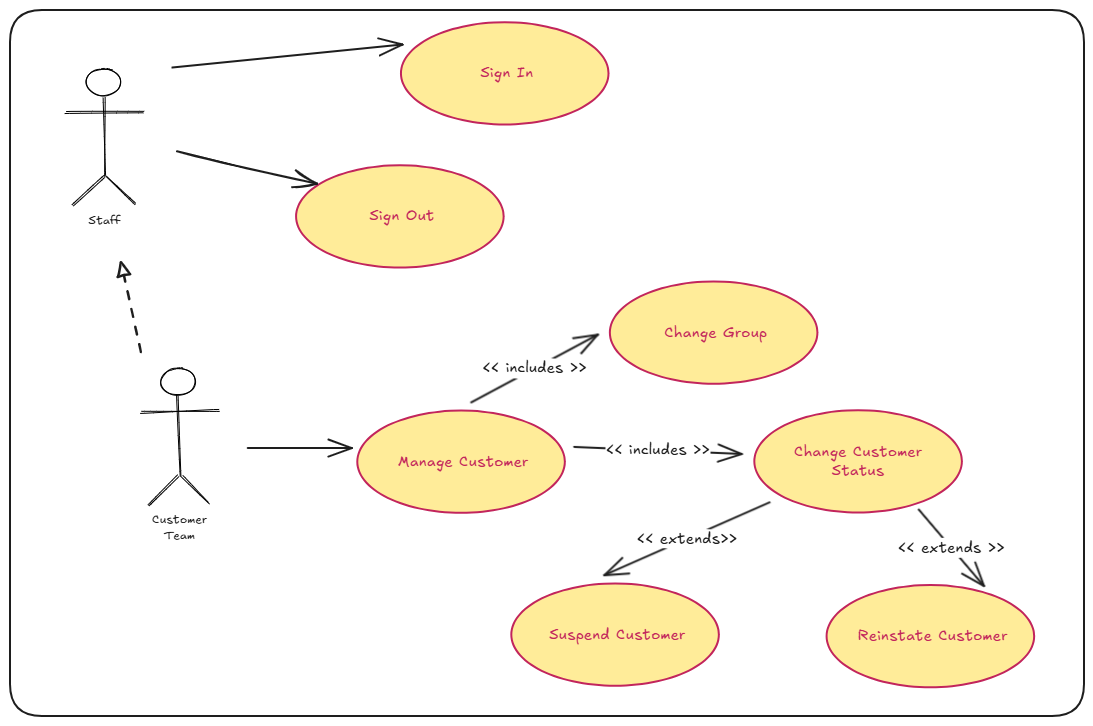
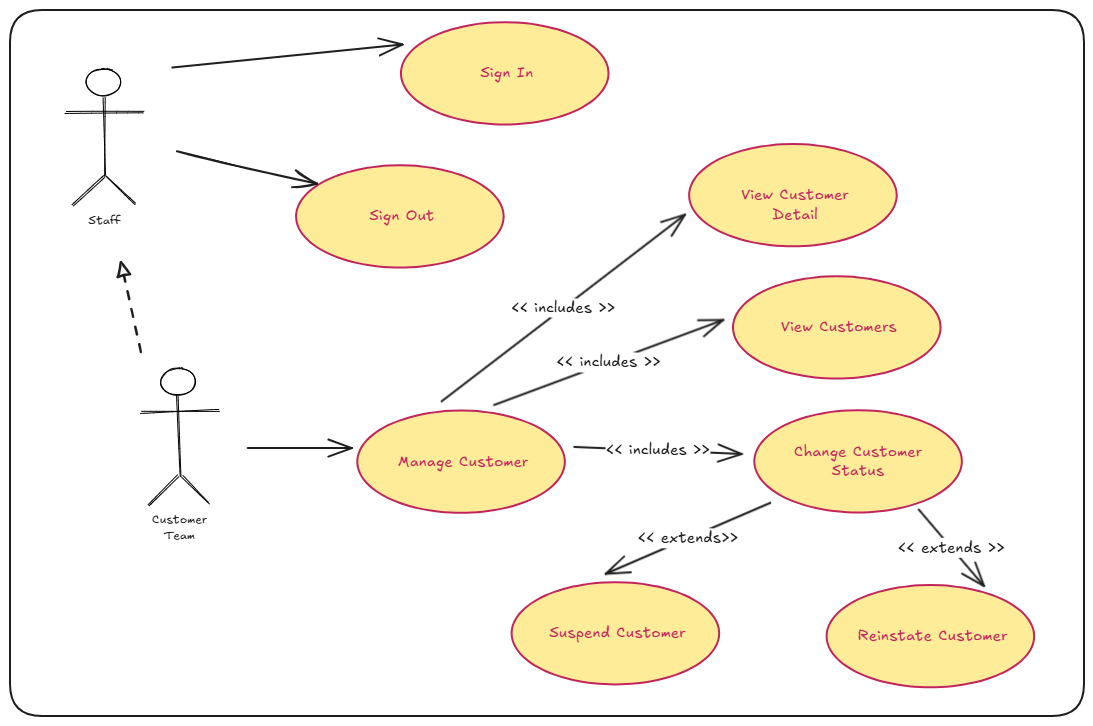
docs(portal): Refine customer management scope in version 1 design
- Update README to specify customer list, detail, suspend, and reinstate actions
- Remove "Change Group" usecase
- Add "View Customers" use case diagram
- Add "View Customer Detail" use case to diagram
- Correct minor typos in Keycloak and RabbitMQ descriptions

diff --git a/docs/portal/design/version-1/README.md b/docs/portal/design/version-1/README.md
@@ -14,9 +14,10 @@ As a Customer Team member, you will be able to:
 - open the web application with a default landing page
 - sign-in, and sign-out
 - manage customer details
+  - view list of customers
   - view customer details
-  - change customer assigned group
-  - change customer status
+  - suspend customer
+  - reinstate customer
 
 > [!IMPORTANT]
 > &nbsp;  
@@ -37,7 +38,7 @@ As a Customer Team member, you will be able to:
 
 ## 🛒 Portal Website
 
-The primary areas of focus in this version are as follows:
+The scope for this version is as follows:
 
 - Create initial React application and establish baseline (minimal required setup)
 - Introduce User Interface (UI) libraries to provide styling
@@ -54,7 +55,7 @@ The primary areas of focus in this version are as follows:
 
 The Portal API follows a [modular monolith](https://grok.com/share/c2hhcmQtMw_f1c77275-98eb-4a84-8056-1909c5036e4c) architectural style.
 
-The primary areas of focus in this version are as follows:
+The scope for this version is as follows:
 
 - Create initial .NET 10 API and establish baseline (minimal requried setup)
 - Once a baseline is established, introduce the following capabilities to the API
@@ -62,7 +63,10 @@ The primary areas of focus in this version are as follows:
   - error handling
   - validation
 - Create customers endpoint to allow Portal application to manage customer details
-  - Integrate with Keycloak API to manage user attributes within keycloak
+  - list customers (with pagination and filters)
+  - get customer detail by customer id
+  - suspend customer
+  - reinstate customer
 - Introduce auth capability to ensure that relevant endpoint requests are authorised
 - Create Dockerfile to define Portal API image
 
@@ -70,7 +74,7 @@ The primary areas of focus in this version are as follows:
 
 ## 📬 Customer Outbox Processor
 
-The outbox processor reliably publishes customer domain events to the message bus using the outbox pattern. It runs as a background worker that polls the outbox table, converts pending messages into CloudEvents, publishes them to RabbitMQ, and updates outbox state for retries or permanent failure.
+The outbox processor reliably publishes customer domain events to the message bus (RabbitMQ) using the outbox pattern. It runs as a background worker that polls the outbox table, converts pending messages into CloudEvents, publishes them to RabbitMQ, and updates outbox state for retries or permanent failure.
 
 - Create .NET 10 Background service to process customer domain events from the customer outbox table
 - Convert domain events into integration events ([CNCF CloudEvents](https://www.cncf.io/projects/cloudevents/))
@@ -95,7 +99,7 @@ The event processor consumes customer CloudEvents from RabbitMQ and routes them 
 The primary areas of focus in this version are as follows:
 
 - Define initial Docker compose file to manage API and Web Application services
-- Update Keycloak infrastructure by new realm for the Portal admin app
+- Update Keycloak infrastructure with new realm for the Portal admin app
   - Define clients
   - Define roles
   - Define groups
